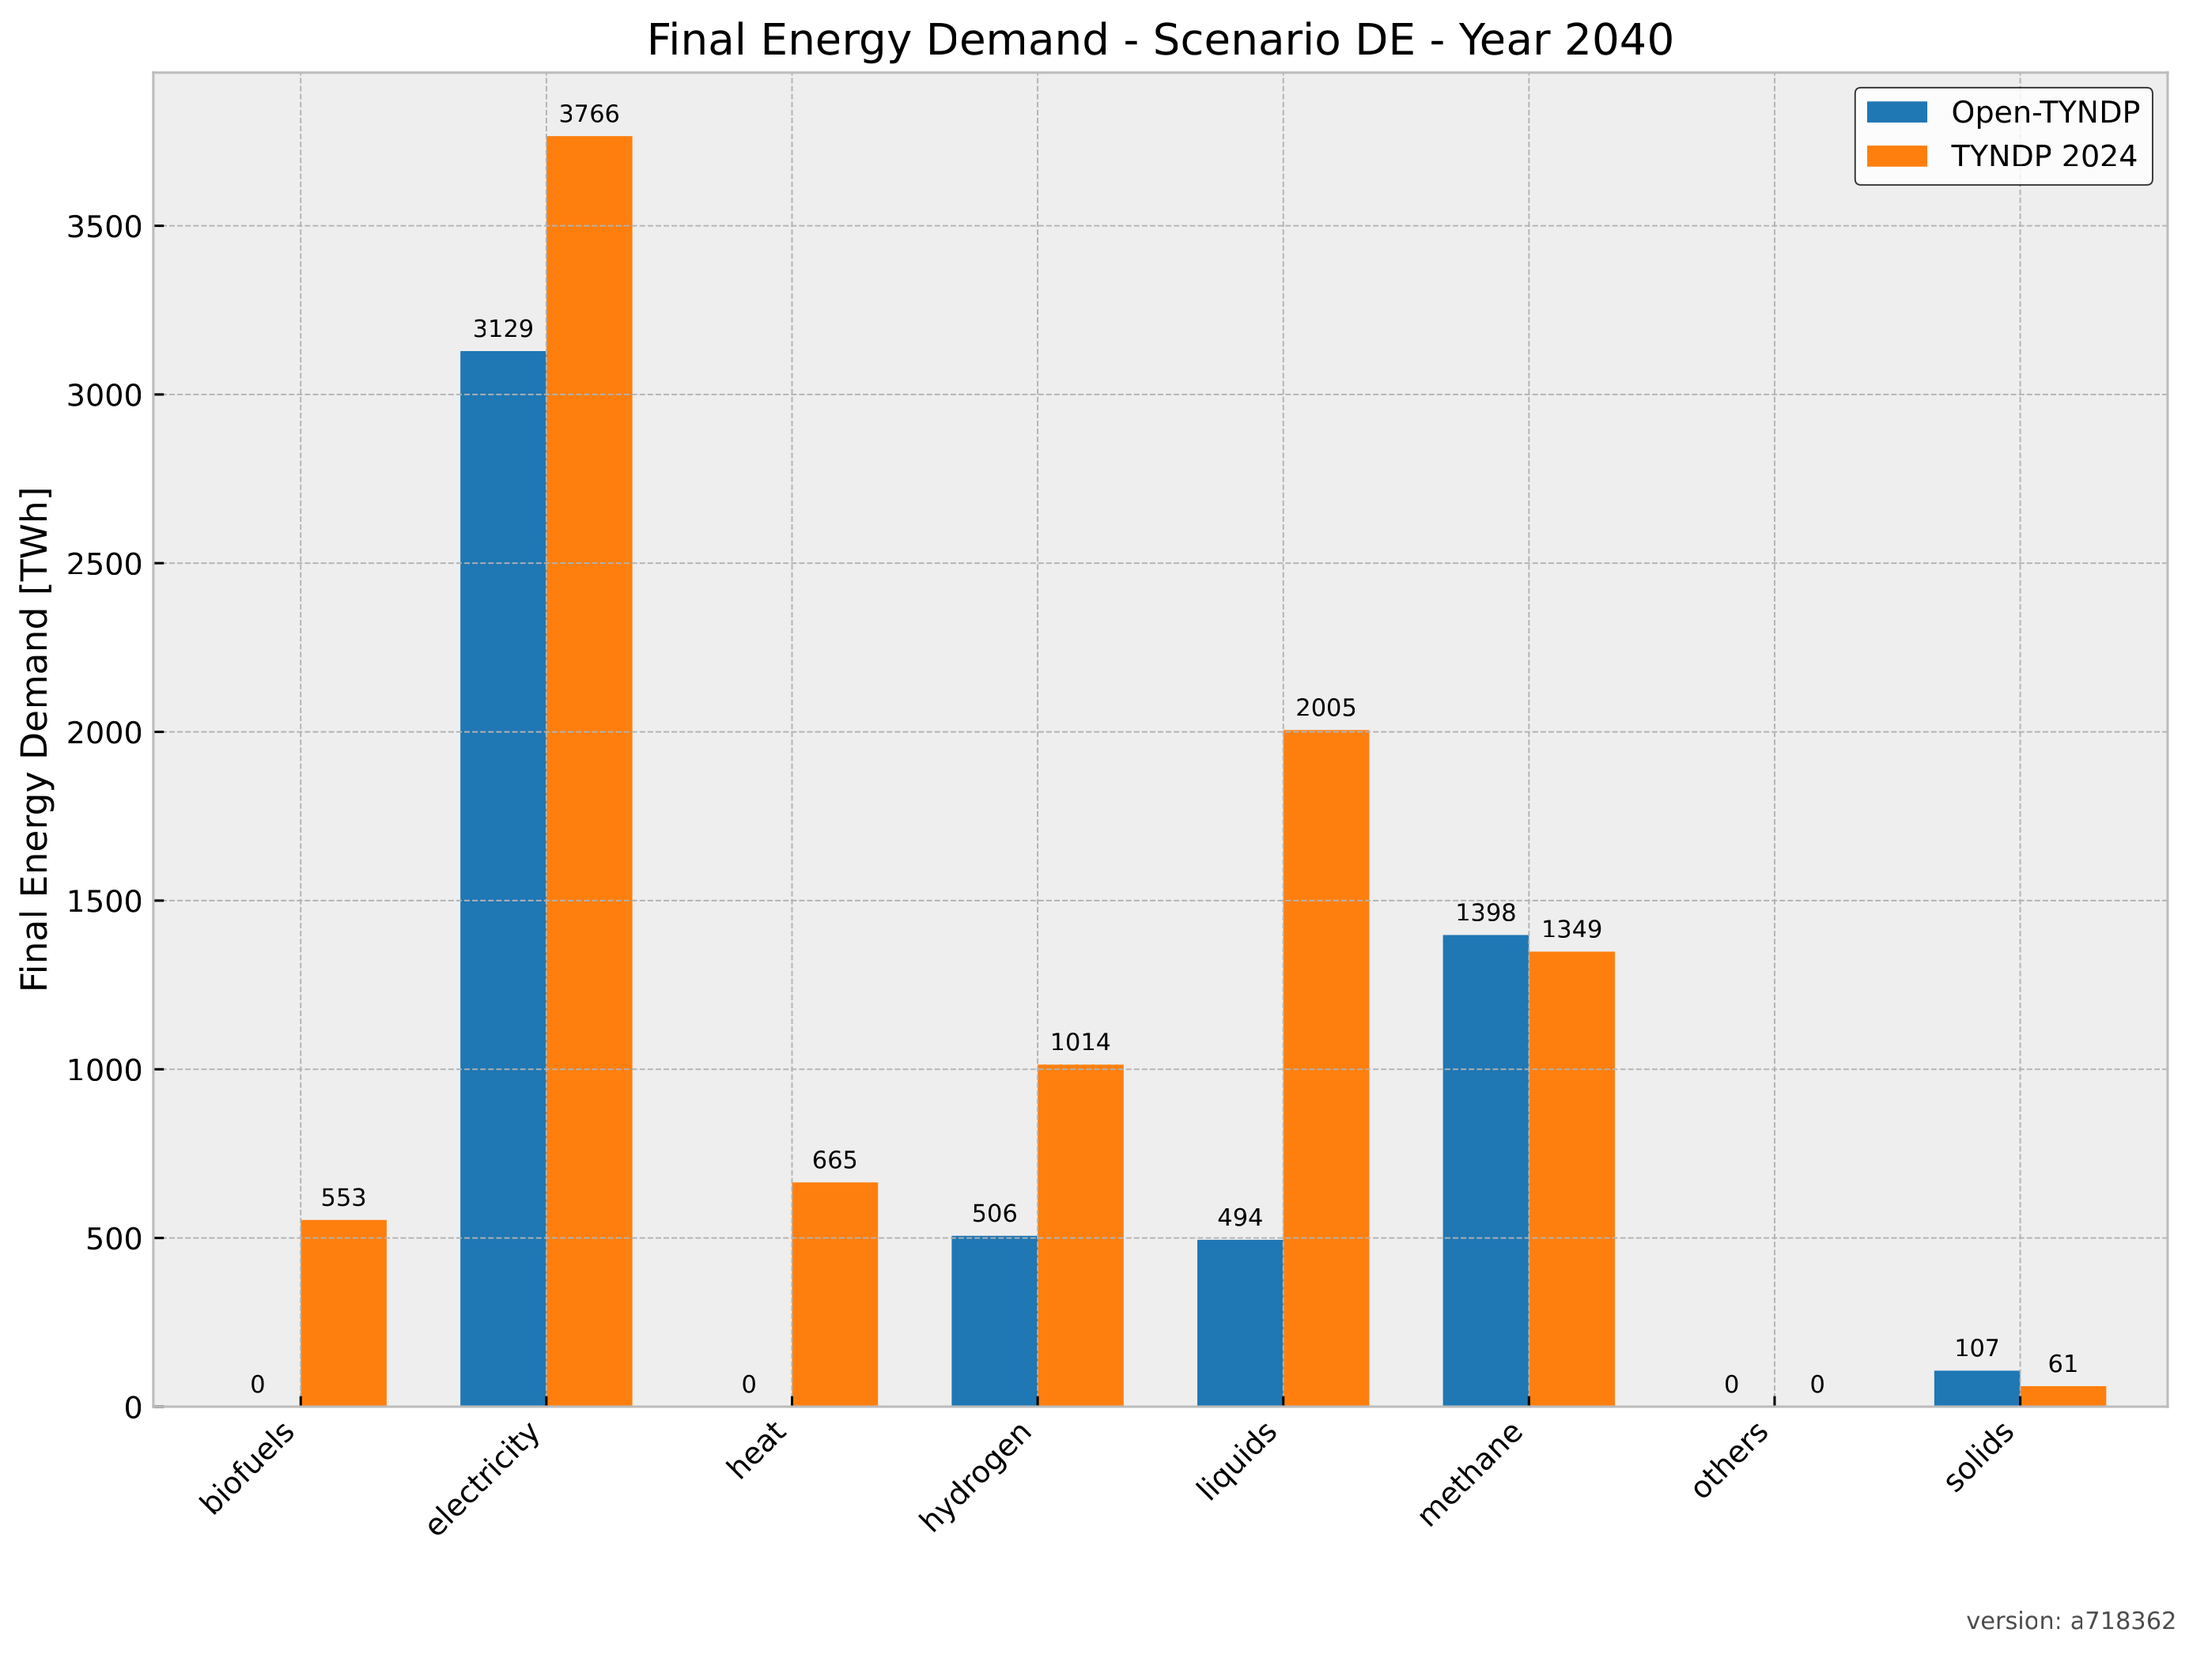
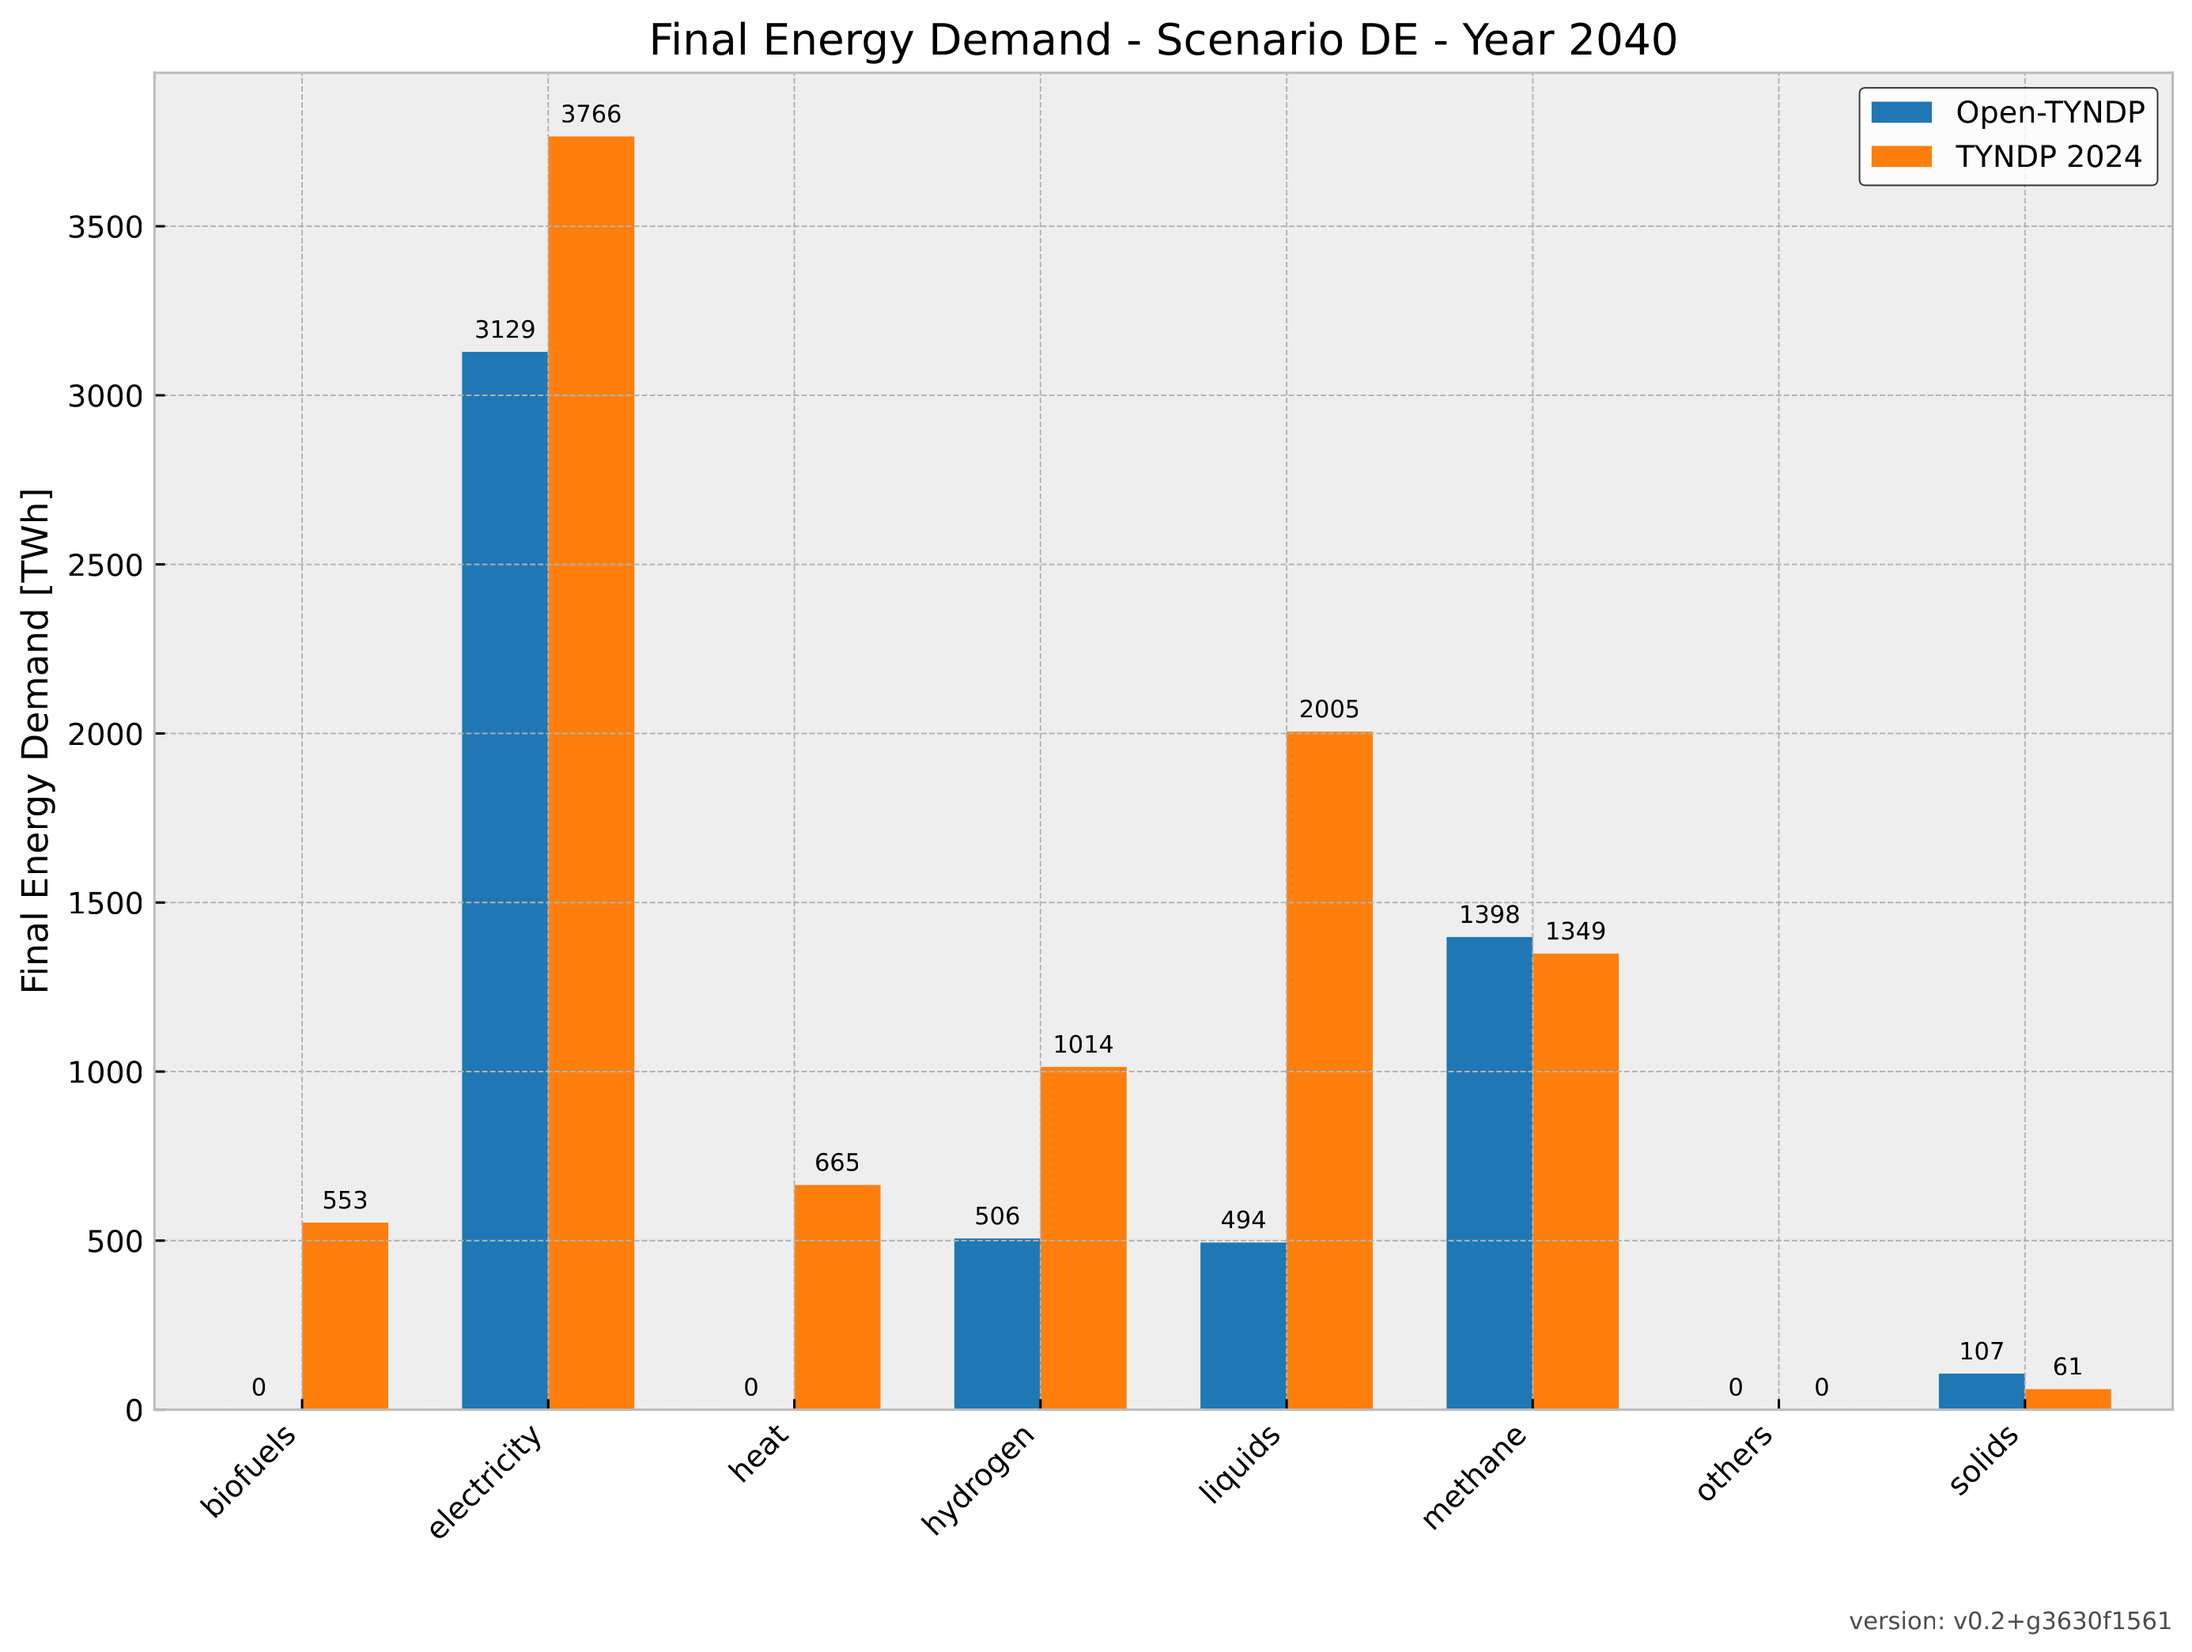
feat: improve versioning

diff --git a/scripts/plot_benchmark.py b/scripts/plot_benchmark.py
@@ -14,7 +14,7 @@ import matplotlib.pyplot as plt
 import pandas as pd
 from tqdm import tqdm
 
-from scripts._helpers import configure_logging, get_git_commit_hash, set_scenario_config
+from scripts._helpers import configure_logging, get_version, set_scenario_config
 from scripts.clean_tyndp_benchmark import _convert_units
 from scripts.make_benchmark import load_data, match_temporal_resolution
 
@@ -22,23 +22,23 @@ logger = logging.getLogger(__name__)
 plt.style.use("bmh")
 
 
-def add_version(ax: plt.Axes, fig: plt.Figure, x=0.9):
-    commit_hash = get_git_commit_hash()
+def add_version(ax: plt.Axes, fig: plt.Figure):
+    version = get_version()
     fig.canvas.draw()
-    renderer = fig.canvas.get_renderer()
-    min_y = min(
-        [
-            i.get_window_extent(renderer).transformed(ax.transAxes.inverted()).y0
-            for i in ax.get_xticklabels()
-        ]
-    )
+    bbox_fig = fig.get_tightbbox(fig.canvas.get_renderer())
+    fig_width_inches, fig_height_inches = fig.get_size_inches()
+    x1_fig = (
+        bbox_fig.x1 / fig_width_inches
+    )  # Convert bbox coordinates from inches to figure coordinates
+    y0_fig = bbox_fig.y0 / fig_height_inches
+
     ax.text(
-        x,
-        min_y - 0.05,
-        f"version: {commit_hash}",
-        transform=ax.transAxes,
-        ha="left",
-        va="top",
+        x1_fig,
+        y0_fig - 0.05,
+        f"version: {version}",
+        transform=fig.transFigure,
+        ha="right",
+        va="bottom",
         fontsize=8,
         alpha=0.7,
     )
@@ -156,7 +156,7 @@ def _plot_time_series(
         bbox=props,
     )
 
-    add_version(ax, fig, x=1.2)
+    add_version(ax, fig)
 
     output_filename = Path(output_dir, f"benchmark_{table}_{year}.pdf")
     fig.savefig(output_filename, bbox_inches="tight")
@@ -318,7 +318,7 @@ def plot_overview(
         loc="upper left",
     )
 
-    add_version(ax, fig, x=0.94)
+    add_version(ax, fig)
 
     fig.savefig(fn, bbox_inches="tight")
 

diff --git a/scripts/make_benchmark.py b/scripts/make_benchmark.py
@@ -17,7 +17,7 @@ import numpy as np
 import pandas as pd
 from tqdm import tqdm
 
-from scripts._helpers import configure_logging, get_git_commit_hash, set_scenario_config
+from scripts._helpers import configure_logging, get_version, set_scenario_config
 
 logger = logging.getLogger(__name__)
 
@@ -508,15 +508,15 @@ if __name__ == "__main__":
         results = list(tqdm(pool.imap(func, options["tables"].keys()), **tqdm_kwargs))
         benchmarks, indicators = zip(*results)
 
-    # Get unique version hash
-    commit_hash = get_git_commit_hash()
+    # Get version
+    version = get_version()
 
     # Combine and write all benchmark data
     os.makedirs(snakemake.output.benchmarks, exist_ok=True)
     for benchmark in benchmarks:
         if not benchmark.empty:
             table = benchmark.index.get_level_values(0)[0]
-            benchmark_i = benchmark.loc[table].assign(commit_hash=commit_hash)
+            benchmark_i = benchmark.loc[table].assign(version=version)
             benchmark_i.to_csv(
                 snakemake.output.benchmarks
                 + f"/{table}_s_{snakemake.wildcards.clusters}_{snakemake.wildcards.opts}_{snakemake.wildcards.sector_opts}_all_years.csv"
@@ -527,5 +527,5 @@ if __name__ == "__main__":
 
     indicators = pd.concat(
         [pd.concat(indicators).sort_index(), indicators_total]
-    ).assign(commit_hash=commit_hash)
+    ).assign(version=version)
     indicators.to_csv(snakemake.output.kpis)

diff --git a/scripts/_helpers.py b/scripts/_helpers.py
@@ -1192,9 +1192,31 @@ def safe_pyear(
     return year_new
 
 
-def get_git_commit_hash() -> str:
+def get_version(hash_len: int = 9) -> str:
+    """
+    Create a version identifier from git repository state.
+
+    Returns a version string based on the latest reachable tag and current commit:
+    - If HEAD is exactly at a tag: returns the tag name (e.g., "v1.2.3")
+    - If HEAD is beyond a tag: returns "tag+g{hash}" (e.g., "v1.2.3+g1a2b3c4d")
+    - If no tags found: returns just the commit hash (e.g., "1a2b3c4d5")
+    """
     try:
         repo = git.Repo(search_parent_directories=True)
-        return repo.head.commit.hexsha[:7]
+        tags = sorted(
+            repo.tags, key=lambda t: t.commit.committed_datetime, reverse=True
+        )
+        last_tag = None
+        for tag in tags:
+            if repo.is_ancestor(tag.commit, repo.head.commit):
+                last_tag = tag
+                break
+        if last_tag and last_tag.commit == repo.head.commit:
+            return f"{last_tag}"
+        elif last_tag:
+            return f"{last_tag}+g{repo.head.commit.hexsha[:hash_len]}"
+        else:
+            return repo.head.commit.hexsha[:hash_len]
+
     except Exception:
         return "unknown"

diff --git a/doc/benchmarking.rst b/doc/benchmarking.rst
@@ -85,7 +85,7 @@ Outputs
 Example of indicators extracted from `power_generation_s_all__all_years.csv` for DE scenario with 720SEG:
 
 ================================  =====  =====  ======  =====  ==============  ============
-Carrier                           sMPE   sMAPE  sMdAPE  RMSLE  Growth Error    commit_hash
+Carrier                           sMPE   sMAPE  sMdAPE  RMSLE  Growth Error    version
 ================================  =====  =====  ======  =====  ==============  ============
 **Coal + other fossil**           0.93   1.07   1.07    18.64  2.65            a718362
 **Hydrogen**                      -0.05  1.95   1.95    6.15   1.15            a718362
@@ -112,7 +112,7 @@ Example of figure created for the generation profiles for DE scenario in 2040 wi
 Example of indicators extracted from `kpis_s_all__all_years.csv` for DE scenario with 720SEG:
 
 ===============================  =====  =====  ======  =====  ============  =======  ============
-Table                            sMPE   sMAPE  sMdAPE  RMSLE  Growth Error  Missing  commit_hash
+Table                            sMPE   sMAPE  sMdAPE  RMSLE  Growth Error  Missing  version
 ===============================  =====  =====  ======  =====  ============  =======  ============
 **Final energy demand**          -0.57  0.69   0.61    1.79   0.00          3        a718362
 **Electricity demand**           0.56   0.56   0.64    0.66   0.02          2        a718362
